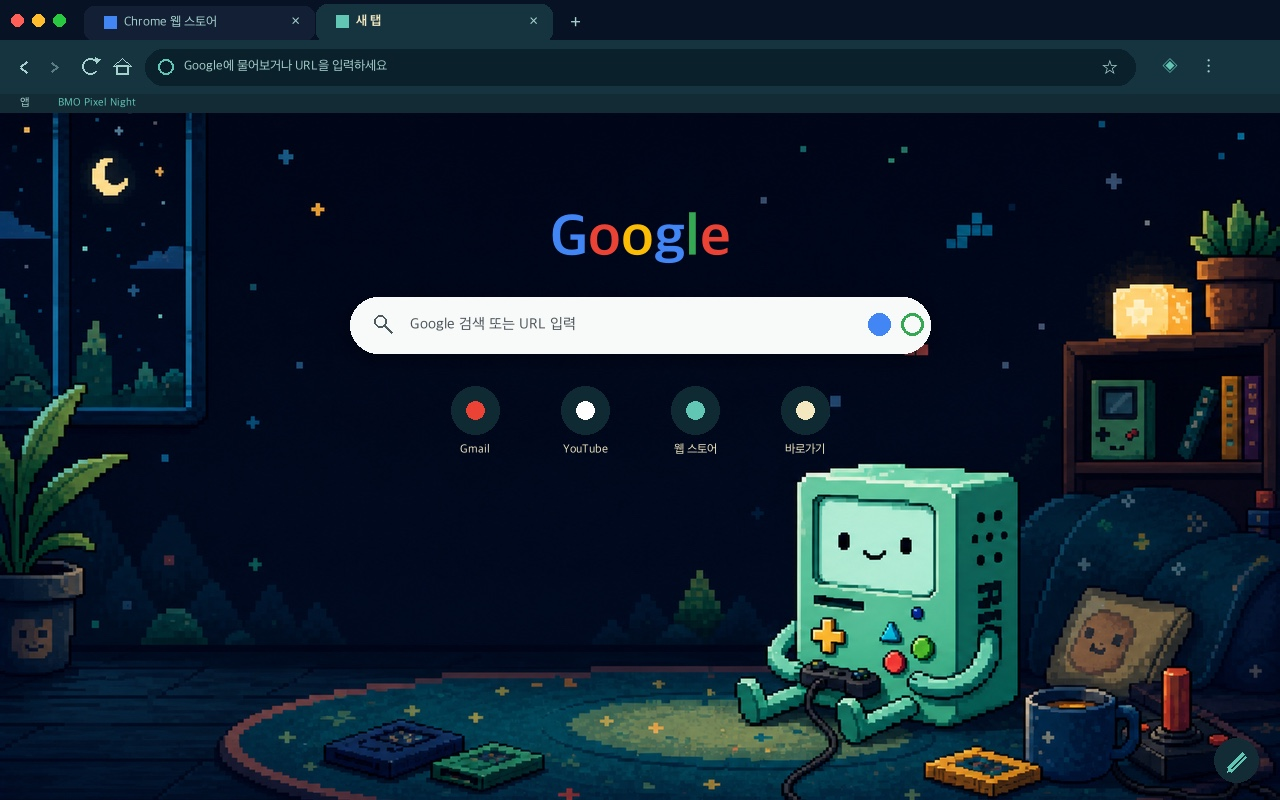
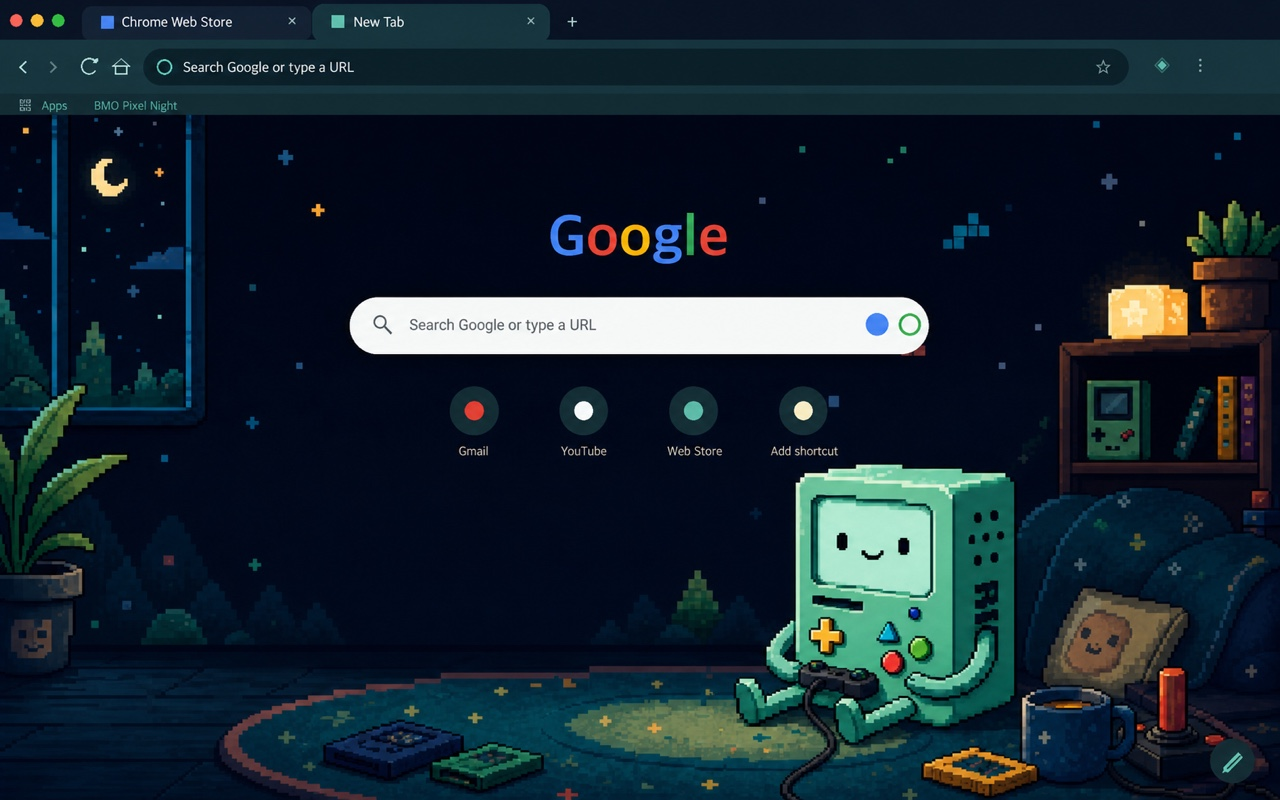
chore: 저장소 콘텐츠를 영어로 통일

diff --git a/docs/agents/README.md b/docs/agents/README.md
@@ -1,71 +1,71 @@
-# 멀티 에이전트 구성
+# Multi-agent setup
 
-이 저장소는 공통 지침과 Agent Skills 표준을 중심으로 Codex, Claude Code, Google Antigravity를 함께 지원
+This repository supports Codex, Claude Code, and Google Antigravity through shared instructions and the Agent Skills standard
 
-## 지원 구조
+## Supported structure
 
-| 도구 | 자동 로딩 지침 | 스킬 | 추가 구성 |
+| Tool | Auto-loaded instructions | Skill | Additional configuration |
 | --- | --- | --- | --- |
-| Codex | `AGENTS.md` | `.agents/skills/theme-workflow/SKILL.md` | 저장소 지침의 상위·하위 범위 규칙 사용 |
+| Codex | `AGENTS.md` | `.agents/skills/theme-workflow/SKILL.md` | Uses the repository instruction hierarchy |
 | Claude Code | `CLAUDE.md` → `AGENTS.md` | `.claude/skills/theme-workflow/SKILL.md` | `.claude/settings.json`, `.claude/agents/theme-reviewer.md` |
-| Antigravity | CLI의 `AGENTS.md`, IDE의 `.agents/rules/repository.md` → `AGENTS.md` | `.agents/skills/theme-workflow/SKILL.md` | `GEMINI.md` 라우팅, 워크플로와 사용자 정의 에이전트 |
+| Antigravity | CLI: `AGENTS.md`; IDE: `.agents/rules/repository.md` → `AGENTS.md` | `.agents/skills/theme-workflow/SKILL.md` | `GEMINI.md` routing, workflows, and custom agents |
 
-## 단일 원본 원칙
+## Single source of truth
 
-- 저장소 공통 계약은 루트 `AGENTS.md`가 단일 원본
-- `CLAUDE.md`와 `.agents/rules/repository.md`는 공통 계약을 가져오는 얇은 어댑터
-- `GEMINI.md`는 CLI와 IDE 경로를 안내하며 중복 컨텍스트 방지를 위해 공통 계약을 다시 import하지 않음
-- 공통 스킬 원본은 `.agents/skills/theme-workflow/SKILL.md`
-- Claude Code 호환 복사본은 `.claude/skills/theme-workflow/SKILL.md`
-- 현재 설치된 Claude Code가 `.agents/skills`를 프로젝트 스킬로 자동 탐색하지 않으므로 복사본 유지
-- 심볼릭 링크 대신 저장소 검증기로 두 스킬 파일의 동일성을 보장해 운영체제와 Claude Code 버전 차이를 회피
+- The root `AGENTS.md` file is the single source of truth for the shared repository contract
+- `CLAUDE.md` and `.agents/rules/repository.md` are thin adapters that import the shared contract
+- `GEMINI.md` routes CLI and IDE entry points without importing the shared contract again, avoiding duplicate context
+- `.agents/skills/theme-workflow/SKILL.md` is the canonical shared skill
+- `.claude/skills/theme-workflow/SKILL.md` is the Claude Code compatibility copy
+- The compatibility copy is required because the currently installed Claude Code does not automatically discover project skills from `.agents/skills`
+- The repository validator enforces byte-for-byte equality between the two skill files instead of using a symbolic link, avoiding operating system and Claude Code version differences
 
-## 제공 기능
+## Provided capabilities
 
-- `theme-workflow`: 독립 테마 생성, 수정, 버전 동기화, 검증, 패키징, 릴리스 준비 절차
-- `theme-reviewer`: 배포 전 검토 전용 에이전트. Claude Code에서는 `permissionMode: plan`으로 쓰기를 차단
-- `/validate-theme`: Antigravity에서 호출하는 읽기 전용 검증 워크플로
-- `.claude/settings.json`: 원격 Git 변경 재확인과 민감 경로에 대한 Claude `Read` 도구 차단 규칙
+- `theme-workflow`: creates, modifies, version-syncs, validates, packages, and prepares independent themes for release
+- `theme-reviewer`: review-only agent for pre-release checks; Claude Code uses `permissionMode: plan` to block writes
+- `/validate-theme`: read-only validation workflow invoked by Antigravity
+- `.claude/settings.json`: confirmation rules for remote Git changes and Claude `Read` restrictions for sensitive paths
 
-특정 모델 ID는 저장소에 고정하지 않음. Claude 검토 에이전트도 `model: inherit`를 사용해 실행 환경의 선택을 그대로 상속
+The repository does not pin a specific model ID. The Claude reviewer also uses `model: inherit` to preserve the execution environment's selection
 
-Antigravity 사용자 정의 에이전트의 검토 전용 문구는 운영 계약이며 파일 자체가 프로젝트 권한을 강제하지는 않음. 실제 쓰기 차단이 필요한 검토는 Antigravity의 Planning 또는 Strict 권한 모드에서 실행 필요. 프로젝트 내부 쓰기는 기본 허용될 수 있으므로 프롬프트 지침만을 보안 경계로 간주하지 않음
+The review-only wording in the Antigravity custom agent is an operating contract; the file itself does not enforce project permissions. Run reviews that require write prevention in Antigravity's Planning or Strict permission mode. Project writes may otherwise be allowed by default, so prompt instructions alone are not a security boundary
 
-Claude의 `Read(...)` deny도 Claude 파일 읽기 도구에 대한 규칙이며 모든 셸 명령을 차단하는 샌드박스는 아님. 민감 파일은 `.gitignore`로 Git 추적도 별도 차단
+Claude `Read(...)` deny rules apply to Claude's file-reading tool and are not a sandbox for every shell command. `.gitignore` separately prevents sensitive files from being tracked by Git
 
-## 검증
+## Validation
 
-에이전트 파일을 수정한 뒤 저장소 루트에서 실행
+Run from the repository root after modifying agent files
 
 ```bash
 python3 tools/agents/validate_setup.py
 ```
 
-검증 항목
+Validation checks
 
-- 모든 모델 진입 파일과 프로젝트 설정 존재 여부
-- 어댑터의 `AGENTS.md` import와 실제 대상 경로
-- 공통 스킬과 Claude 복사본의 바이트 단위 일치 여부
-- 스킬과 사용자 정의 에이전트의 필수 frontmatter 값
-- 두 검토 에이전트의 공통 본문과 Claude `plan` 권한
-- Claude 프로젝트 설정 JSON 형식과 주요 안전 규칙
-- `.gitignore`의 민감 파일 및 로컬 에이전트 상태 보호
+- Presence of every model entry file and project configuration file
+- Adapter imports of `AGENTS.md` and their resolved target paths
+- Byte-for-byte equality between the shared skill and the Claude compatibility copy
+- Required frontmatter values for skills and custom agents
+- Shared reviewer body content and Claude `plan` permissions
+- Claude project settings JSON and key safety rules
+- `.gitignore` protections for sensitive files and local agent state
 
-설치된 CLI까지 확인하려면 smoke 검증 실행
+Run the smoke validation to inspect installed CLIs as well
 
 ```bash
 python3 tools/agents/validate_setup.py --smoke
 ```
 
-Smoke 검증은 설치된 Codex·Claude·Gemini CLI 버전을 확인하고, Gemini CLI가 저장소의 `theme-workflow` 스킬을 실제 발견하는지 검사
+Smoke validation checks installed Codex, Claude, and Gemini CLI versions and verifies that Gemini CLI discovers the repository's `theme-workflow` skill
 
-## 로컬 전용 설정
+## Local-only configuration
 
-다음 파일은 개인 설정이므로 커밋하지 않음
+The following files contain personal configuration and must not be committed
 
 - `CLAUDE.local.md`
 - `.claude/settings.local.json`
 - `.claude/agent-memory-local/`
-- `.codex/` 또는 `.gemini/` 아래의 사용자 인증 정보와 로컬 상태
+- Credentials and local state under `.codex/` or `.gemini/`
 
-저장소에는 API 키, OAuth 토큰, 개인 MCP 인증, 모델별 개인 환경설정을 넣지 않음
+Do not store API keys, OAuth tokens, personal MCP credentials, or model-specific personal settings in the repository

diff --git a/README.md b/README.md
@@ -1,10 +1,10 @@
 # Theme Collection
 
-Chrome, VS Code 등 앱별 독립 테마를 한 저장소에서 관리하기 위한 컬렉션
+A collection for managing independent themes for apps such as Chrome and VS Code in one repository
 
-같은 테마를 여러 앱으로 변환하는 구조가 아니라 앱 아래에 서로 독립적인 테마를 배치하는 방식
+Themes are organized independently under each app rather than converted into matching variants across multiple apps
 
-## 구조
+## Structure
 
 ```text
 theme-collection/
@@ -36,54 +36,54 @@ theme-collection/
 └── dist/
 ```
 
-## 현재 테마
+## Current themes
 
-| 앱 | 테마 | 버전 | 경로 |
+| App | Theme | Version | Path |
 | --- | --- | --- | --- |
-| Chrome | BMO Pixel Night | 1.0.2 | `chrome/bmo-pixel-night` |
+| Chrome | BMO Pixel Night | 1.0.3 | `chrome/bmo-pixel-night` |
 
-## Chrome 테마 검증
+## Validate a Chrome theme
 
 ```bash
 python3 tools/chrome/validate_theme.py chrome/bmo-pixel-night
 ```
 
-검증과 ZIP 패키징은 Python 표준 라이브러리만 사용
+Validation and ZIP packaging use only the Python standard library
 
-이미지 리사이즈 도구를 사용할 때만 개발 의존성 설치 필요
+Development dependencies are required only for the image resizing tool
 
 ```bash
 python3 -m pip install -r requirements-dev.txt
 ```
 
-## Chrome 테마 패키징
+## Package a Chrome theme
 
 ```bash
 python3 tools/chrome/build_theme.py \
   chrome/bmo-pixel-night \
-  --output dist/chrome/bmo-pixel-night-v1.0.2.zip
+  --output dist/chrome/bmo-pixel-night-v1.0.3.zip
 ```
 
-배포 파일은 `dist/`에 생성되며 Git 커밋 대상에서 제외
+Distribution files are generated under `dist/` and excluded from Git
 
-## AI 에이전트 구성
+## AI agent setup
 
-Codex, Claude Code, Google Antigravity가 같은 저장소 규칙과 테마 작업 절차를 사용하도록 구성
+Codex, Claude Code, and Google Antigravity share the same repository rules and theme workflow
 
 ```bash
 python3 tools/agents/validate_setup.py
 ```
 
-공통 계약은 `AGENTS.md`, 공통 테마 스킬은 `.agents/skills/theme-workflow/SKILL.md`에서 관리
+The shared contract lives in `AGENTS.md`, and the shared theme skill lives in `.agents/skills/theme-workflow/SKILL.md`
 
-도구별 자동 로딩 경로와 동기화 방식은 [멀티 에이전트 구성](docs/agents/README.md) 참고
+See [Multi-agent setup](docs/agents/README.md) for tool-specific discovery paths and synchronization details
 
-## 버전 및 태그 규칙
+## Version and tag conventions
 
-- 각 테마의 버전과 변경 이력은 해당 테마 폴더에서 독립 관리
-- 릴리스 태그 형식은 `<app>-<theme-id>-v<version>` 사용
-- 예시: `chrome-bmo-pixel-night-v1.0.2`
+- Manage each theme's version and changelog independently inside its theme directory
+- Use `<app>-<theme-id>-v<version>` for release tags
+- Example: `chrome-bmo-pixel-night-v1.0.3`
 
-## 권리 및 배포
+## Rights and distribution
 
-코드와 이미지의 권리 상태가 다를 수 있으므로 공개 전 [RIGHTS.md](RIGHTS.md) 확인 필요
+Code and artwork may have different rights restrictions, so review [RIGHTS.md](RIGHTS.md) before any public release

diff --git a/chrome/bmo-pixel-night/README.md b/chrome/bmo-pixel-night/README.md
@@ -1,43 +1,43 @@
 # BMO Pixel Night
 
-BMO에서 영감을 받아 제작한 비공식 2D 픽셀아트 Chrome 팬 테마
+An unofficial 2D pixel-art Chrome fan theme inspired by BMO
 
-## 현재 버전
+## Current version
 
-`1.0.2`
+`1.0.3`
 
-## 주요 설정
+## Key settings
 
-- 새 탭 배경 `2560×1440` RGB PNG
-- 하단 중앙 정렬
-- 배경 반복 없음
-- 네이비 프레임과 BMO 민트 포인트 색상
-- 매니페스트에 선언된 `128×128` 스토어 아이콘
-- 스크립트, 권한, 데이터 수집 없음
+- `2560×1440` RGB PNG New Tab background
+- Bottom-center alignment
+- No background repetition
+- Navy frame colors with BMO-inspired mint accents
+- `128×128` store icon declared in the manifest
+- No scripts, permissions, or data collection
 
-## 폴더
+## Directories
 
-- `assets/source`: 최초 생성 이미지
-- `images`: Chrome 테마가 실제로 참조하는 이미지
-- `store-assets`: 웹 스토어 아이콘, 캡처화면, 프로모션 타일
-- `listing`: 웹 스토어 등록 문구
+- `assets/source`: original generated artwork
+- `images`: runtime images referenced by the Chrome theme
+- `store-assets`: Chrome Web Store icon, screenshot, and promotional tiles
+- `listing`: Chrome Web Store listing copy
 
-## 검증
+## Validation
 
-저장소 루트에서 실행
+Run from the repository root
 
 ```bash
 python3 tools/chrome/validate_theme.py chrome/bmo-pixel-night
 ```
 
-## 패키징
+## Packaging
 
 ```bash
 python3 tools/chrome/build_theme.py \
   chrome/bmo-pixel-night \
-  --output dist/chrome/bmo-pixel-night-v1.0.2.zip
+  --output dist/chrome/bmo-pixel-night-v1.0.3.zip
 ```
 
-## 표시 제약
+## Display limitations
 
-Chrome 웹 스토어 테마 배경은 브라우저에서 `size: initial`로 표시되므로 창 크기와 확대 수준에 따라 보이는 범위가 달라질 수 있음
+Chrome displays theme backgrounds with `size: initial`, so the visible area can vary with the browser window size and zoom level

diff --git a/chrome/bmo-pixel-night/INSTALL.md b/chrome/bmo-pixel-night/INSTALL.md
@@ -1,20 +1,20 @@
-# BMO Pixel Night 설치 방법
+# Install BMO Pixel Night
 
-개인용 비공식 Chrome 팬 테마
+An unofficial Chrome fan theme for personal use
 
-1. Chrome 주소창에서 `chrome://extensions` 열기
-2. 오른쪽 위 `개발자 모드` 활성화
-3. `압축해제된 확장 프로그램을 로드합니다` 선택
-4. 이 `bmo-pixel-night` 폴더 선택
-5. 새 탭을 열어 테마 확인
+1. Open `chrome://extensions` in the Chrome address bar
+2. Enable `Developer mode` in the upper-right corner
+3. Select `Load unpacked`
+4. Select this `bmo-pixel-night` directory
+5. Open a New Tab to verify the theme
 
-테마 제거 또는 기본값 복원은 `chrome://settings/appearance`의 `기본값으로 재설정` 사용
+To remove the theme or restore Chrome defaults, select `Reset to default` under `chrome://settings/appearance`
 
-ZIP 파일을 받은 경우 먼저 압축을 푼 뒤 위 절차 진행
+If you received a ZIP file, extract it before following the steps above
 
-## 배경 표시 참고
+## Background display notes
 
-- 새 탭 배경은 화면 하단 중앙 정렬
-- 배경 이미지 규격은 `2560×1440` RGB PNG
-- Chrome 테마 형식은 배경 크기의 `cover` 또는 `contain` 설정을 지원하지 않음
-- 브라우저 확대·축소 수준과 창 크기에 따라 배경이 보이는 범위가 달라질 수 있음
+- The New Tab background is aligned to the bottom center
+- The background image is a `2560×1440` RGB PNG
+- Chrome themes do not support `cover` or `contain` background sizing
+- The visible background area can vary with the browser zoom level and window size

diff --git a/AGENTS.md b/AGENTS.md
@@ -10,6 +10,12 @@ These instructions apply to the entire repository. Platform or theme-specific do
 - Treat every theme as its own package with independent metadata, assets, version, changelog, and release history
 - Use lowercase kebab-case for app and theme directory names
 
+## Language policy
+
+- Keep all repository files and committed content in English, including source code, comments, documentation, metadata, changelogs, marketplace copy, filenames, and text embedded in images
+- Do not add translated variants or non-English localized content unless the user explicitly changes this repository policy
+- Communicate with the user in Korean unless the user explicitly requests another language
+
 ## Before changing files
 
 1. Run `git status --short --branch` and preserve unrelated user changes
@@ -48,6 +54,7 @@ These instructions apply to the entire repository. Platform or theme-specific do
 
 - Run the narrowest relevant validator after each material change
 - After changing agent configuration, run `python3 tools/agents/validate_setup.py`
+- Before handoff, verify that tracked text and image assets contain no non-English localized copy
 - Before handoff, inspect `git diff --check`, `git status --short`, and the final diff
 - Report the exact commands run and whether they passed
 - Keep implementation completion separate from human rights review, marketplace submission, publication, or approval

diff --git a/chrome/bmo-pixel-night/CHANGELOG.md b/chrome/bmo-pixel-night/CHANGELOG.md
@@ -1,16 +1,21 @@
 # Changelog
 
+## 1.0.3
+
+- Replaced the Korean manifest description with English copy
+- Standardized theme documentation and marketplace assets in English
+
 ## 1.0.2
 
-- 새 탭 배경을 `2560×1440`으로 확대
-- 새 탭 배경을 하단 중앙 정렬로 변경
-- 웹 스토어 업로드용 패키지 구조 정리
+- Enlarged the New Tab background to `2560×1440`
+- Aligned the New Tab background to the bottom center
+- Refined the package structure for Chrome Web Store uploads
 
 ## 1.0.1
 
-- 새 탭 배경을 화면 가운데 정렬로 변경
+- Centered the New Tab background
 
 ## 1.0.0
 
-- 최초 Chrome 테마 제작
-- 픽셀아트 배경과 네이비·민트 브라우저 색상 추가
+- Created the initial Chrome theme
+- Added a pixel-art background with navy and mint browser colors

diff --git a/chrome/README.md b/chrome/README.md
@@ -1,8 +1,8 @@
 # Chrome themes
 
-각 하위 폴더는 독립적으로 설치하고 배포할 수 있는 하나의 Chrome 테마
+Each child directory contains one Chrome theme that can be installed and distributed independently
 
-필수 파일과 권장 폴더
+Required files and recommended directories
 
 ```text
 <theme-id>/
@@ -15,4 +15,4 @@
 └── README.md
 ```
 
-`manifest.json`과 참조된 `images/` 파일만 웹 스토어 배포 ZIP에 포함
+The Chrome Web Store distribution ZIP contains only `manifest.json` and resources referenced by the manifest

diff --git a/templates/chrome-theme/README.md b/templates/chrome-theme/README.md
@@ -1,5 +1,5 @@
 # Chrome theme template
 
-새 Chrome 테마를 추가할 때 `chrome/<theme-id>` 구조와 기존 `bmo-pixel-night` 테마를 기준으로 시작
+When adding a new Chrome theme, start with the `chrome/<theme-id>` structure and the existing `bmo-pixel-night` theme as references
 
-추가 후 `tools/chrome/validate_theme.py`로 검증하고 `tools/chrome/build_theme.py`로 배포 ZIP 생성
+After adding the theme, validate it with `tools/chrome/validate_theme.py` and create its distribution ZIP with `tools/chrome/build_theme.py`

diff --git a/vscode/README.md b/vscode/README.md
@@ -1,8 +1,8 @@
 # VS Code themes
 
-향후 VS Code용 독립 테마를 추가하는 위치
+This directory is reserved for future independent VS Code themes
 
-권장 구조
+Recommended structure
 
 ```text
 <theme-id>/
@@ -13,4 +13,4 @@
 └── README.md
 ```
 
-Chrome 테마와 색상 또는 버전을 공유한다는 전제 없이 독립적으로 관리
+Manage each theme independently without assuming shared colors or versions with a Chrome theme

diff --git a/templates/vscode-theme/README.md b/templates/vscode-theme/README.md
@@ -1,5 +1,5 @@
 # VS Code theme template
 
-새 VS Code 테마를 추가할 때 사용할 템플릿 위치
+Use this template directory when adding a new VS Code theme
 
-실제 첫 VS Code 테마를 제작할 때 `package.json`, 색상 테마 JSON, 마켓플레이스 애셋 템플릿 추가 예정
+Add `package.json`, color theme JSON, and marketplace asset templates when implementing the first VS Code theme
